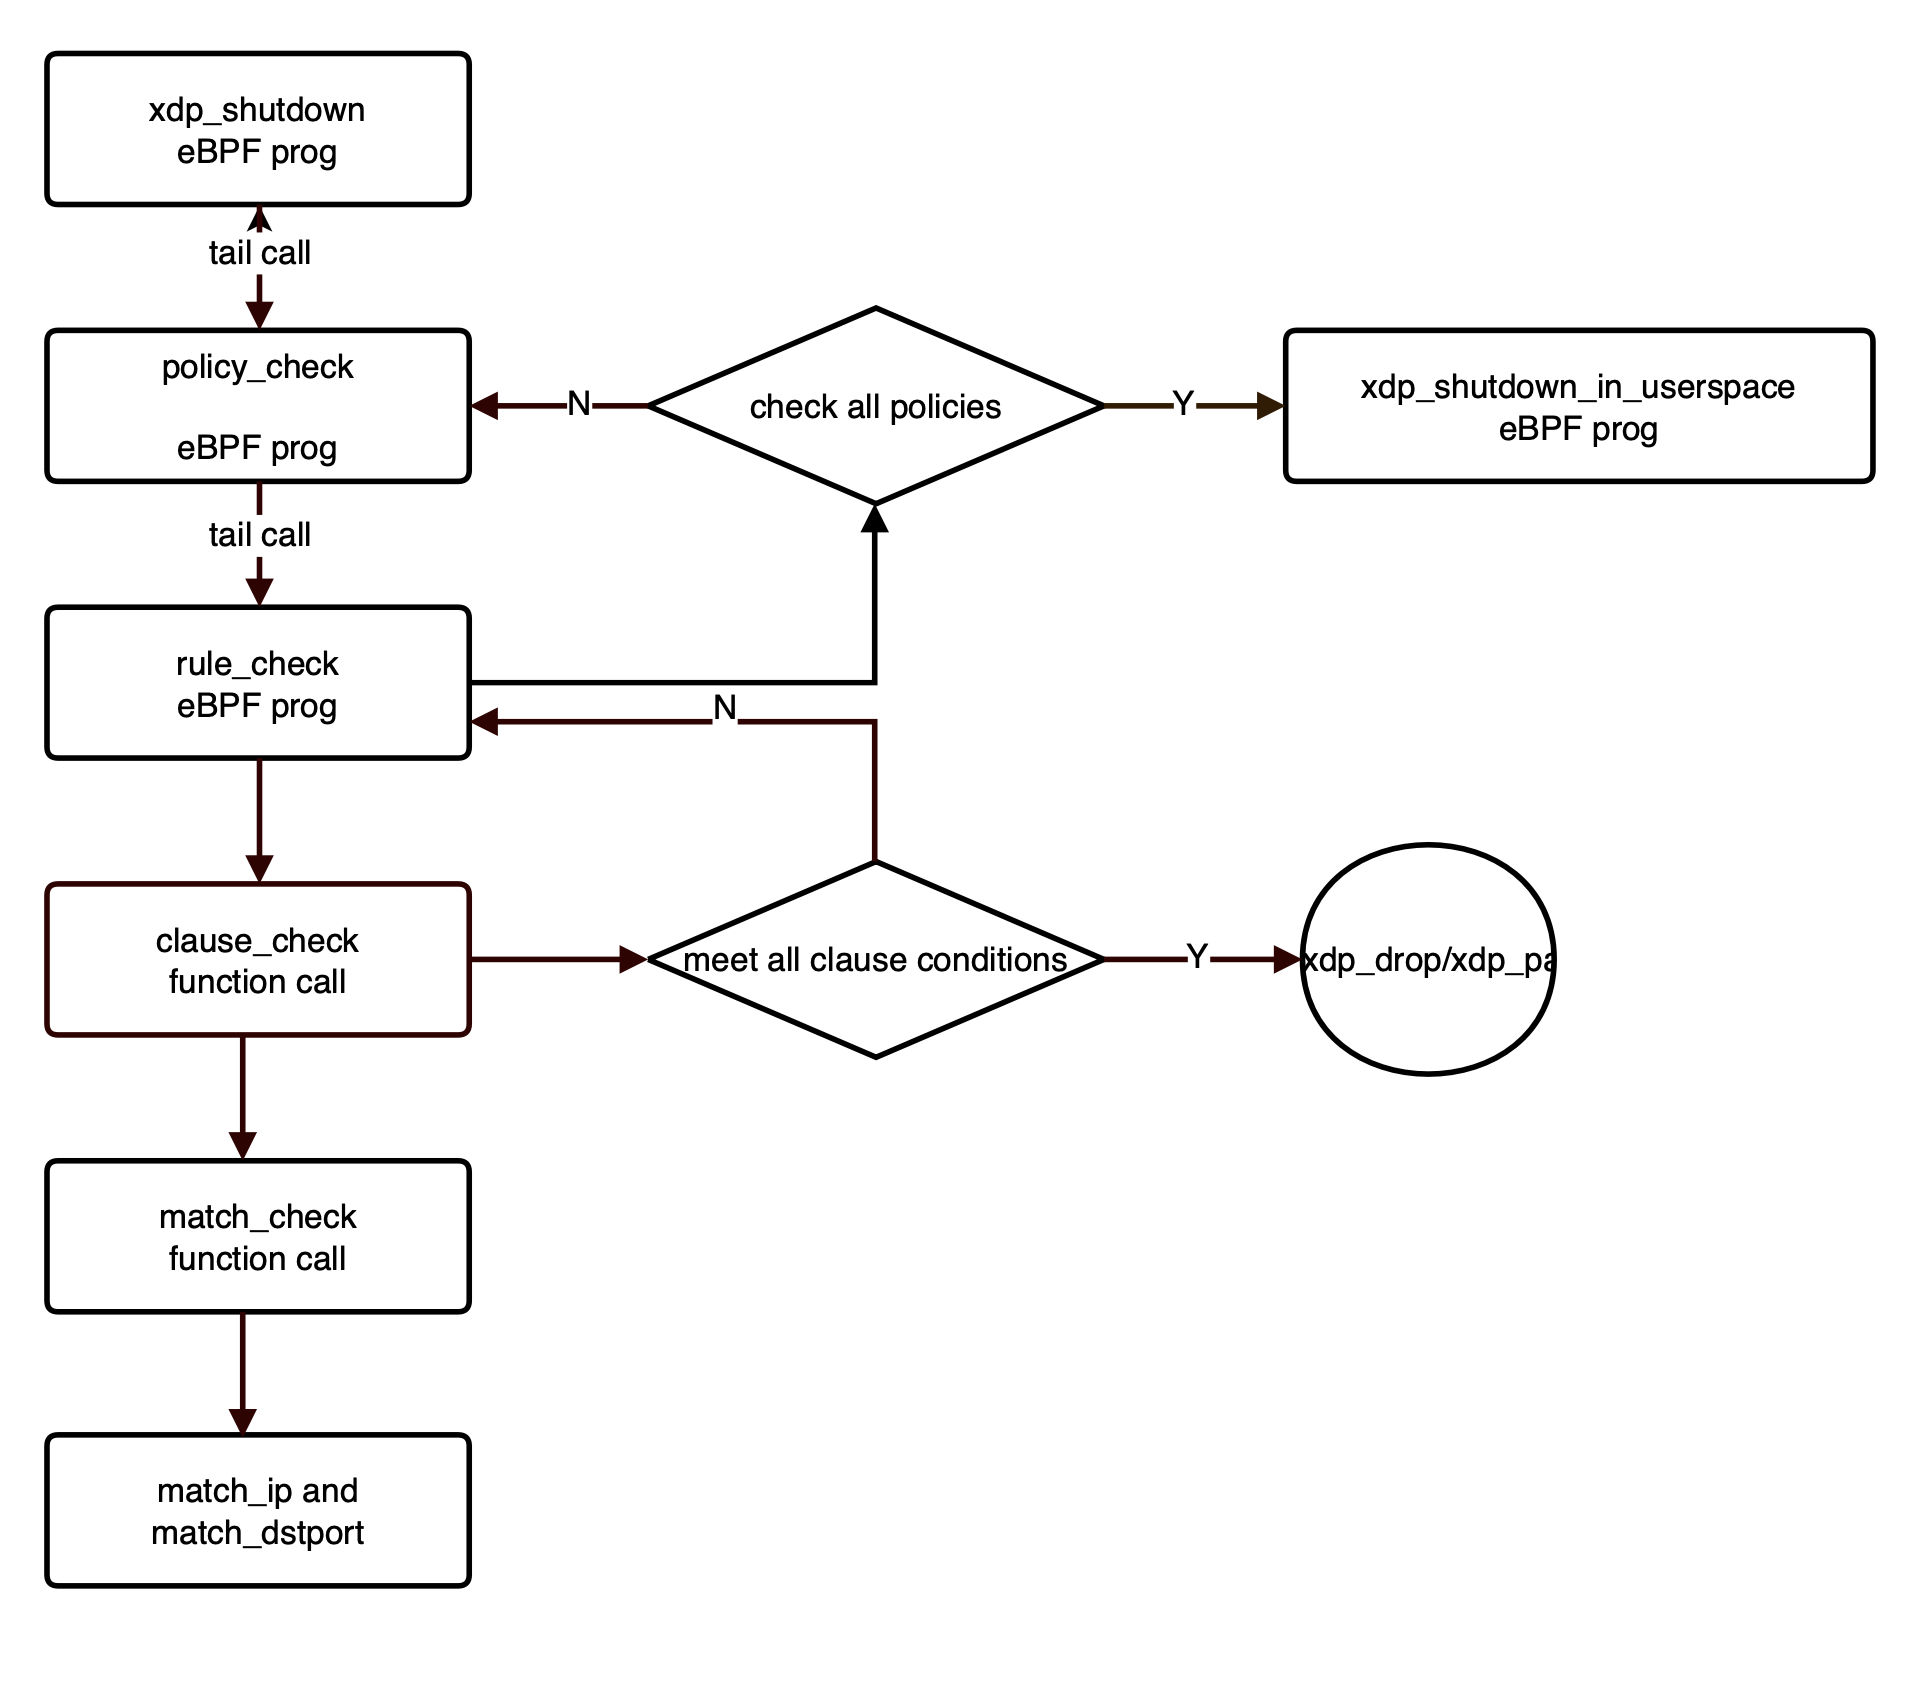
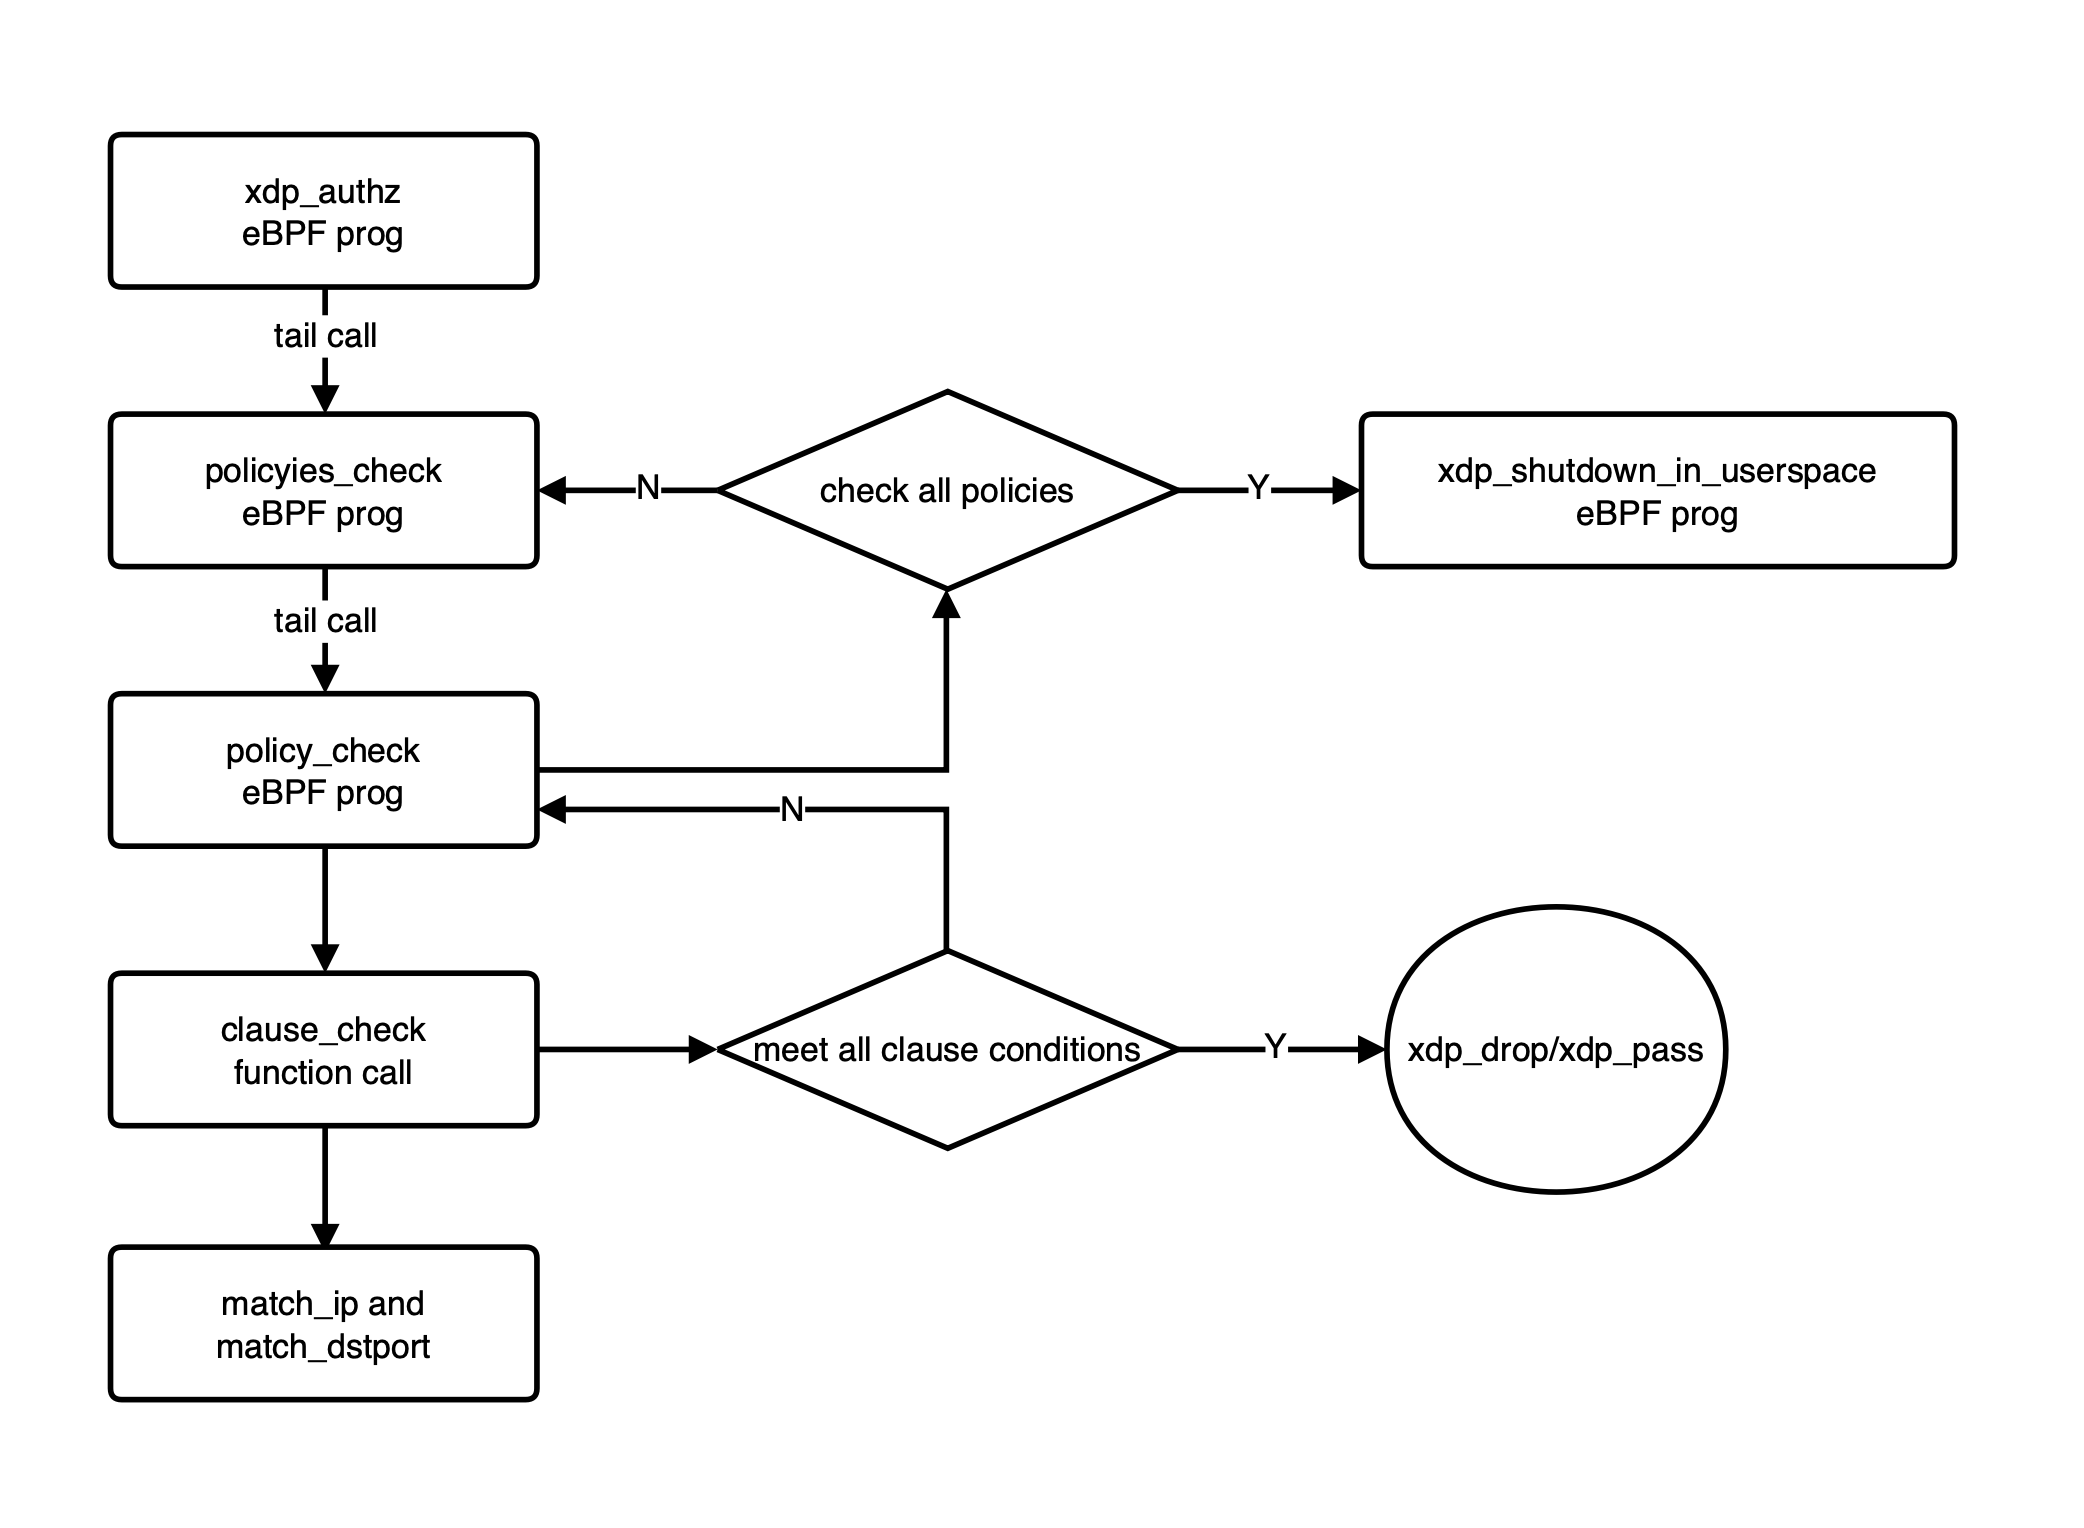
update auth model

diff --git a/docs/proposal/layer4_authorization.md b/docs/proposal/layer4_authorization.md
@@ -92,13 +92,18 @@ struct {
     __uint(max_entries, MAP_SIZE_OF_AUTH_TAILCALL);
 } kmesh_tc_args SEC(".maps");
 ```
+#### Istio policy module
+
+![istio_policy_module](pics/istio_policy_module.png#pic_center)
+
+The structural diagram of istio storage policy is shown above. The Istio authorization model enforces policies through the `Istio__Security__Authorization` resource. Within this model, a workload can be associated with multiple policy rules, where policies are OR-ed. Each policy comprises various rules, which are similarly assessed OR-ed. A rule is further decomposed into multiple clauses, which are evaluated using an AND logic, meaning that all clauses must be satisfied for the rule to be considered valid. Finally, each clause contains multiple matches, assessed OR-ed, where the satisfaction of any match is sufficient for the clause to be deemed fulfilled. The policy layer also includes the authentication action, which ultimately determines the authentication strategy
 
 #### Processing logic
 
 ![l4_authz_xdp](pics/kmesh_xdp_authz.jpg#pic_center)
 
 In the implementation of XDP authentication, due to the limitation of eBPF verifier on the number of bytes, we need to use eBPF's tailcall mechanism to implement the entire process of XDP authentication. The whole process is shown in the figure above:
-First, the program entry is xdp_authz. In this eBPF program, the starting address of the authentication rule in memory will be written to kmesh_tc_args eBPF map, and then tail call will be made to the policy_check eBPF program. This program will write the rule and necessary information to kmesh_tc_args eBPF map, and then tail call will be made to the rule_check eBPF program to check the specific clause rules, which involves matching logic such as port_check and ip_check.
+First, the program entry is xdp_authz. In this eBPF program, the starting address of the authentication rule in memory will be written to kmesh_tc_args eBPF map, and then tail call will be made to the policies_check eBPF program. This program will write the rule and necessary information to kmesh_tc_args eBPF map, and then tail call will be made to the policy_check eBPF program to check the specific clause rules, which involves matching logic such as port_check and ip_check.
 
 ![l4_authz_xdp_process](pics/kmesh_l4_authorization_match_chain.svg#pic_center)
 
